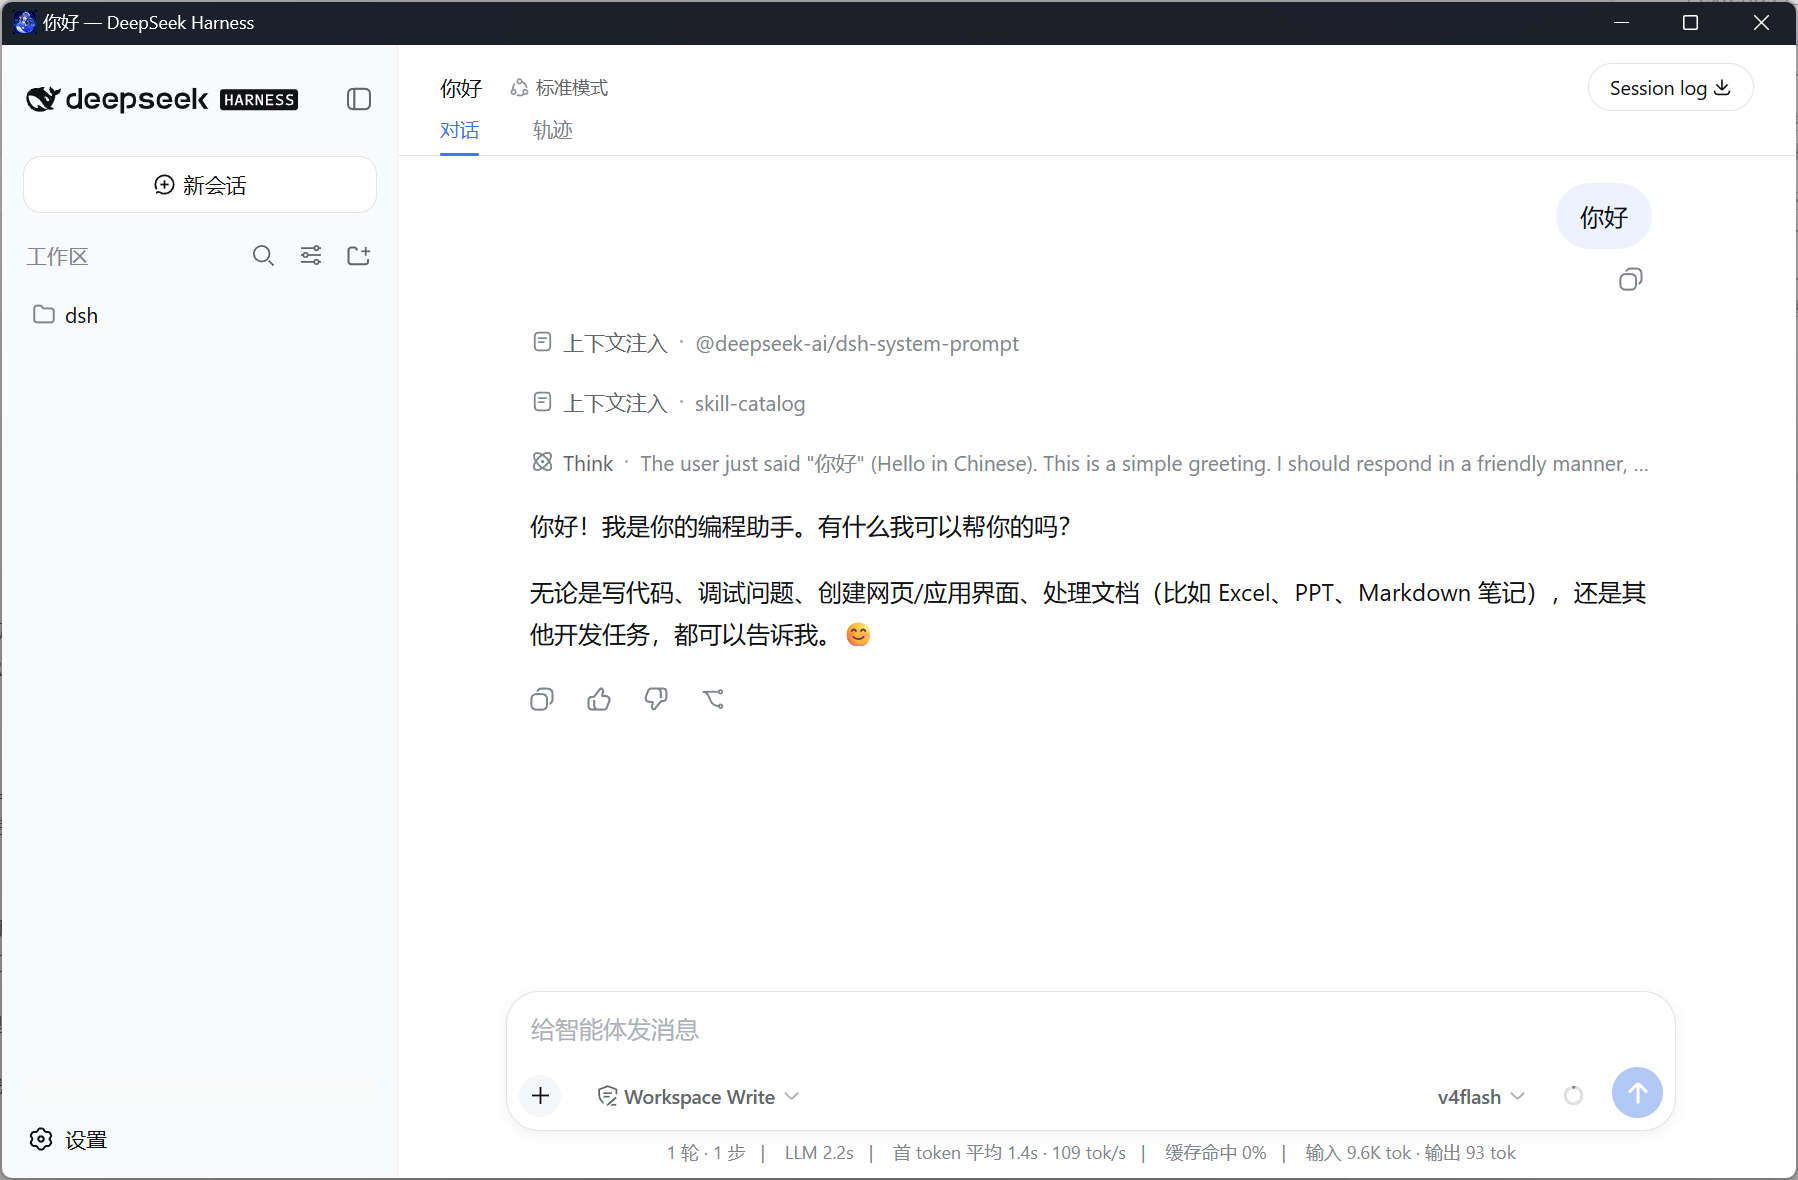
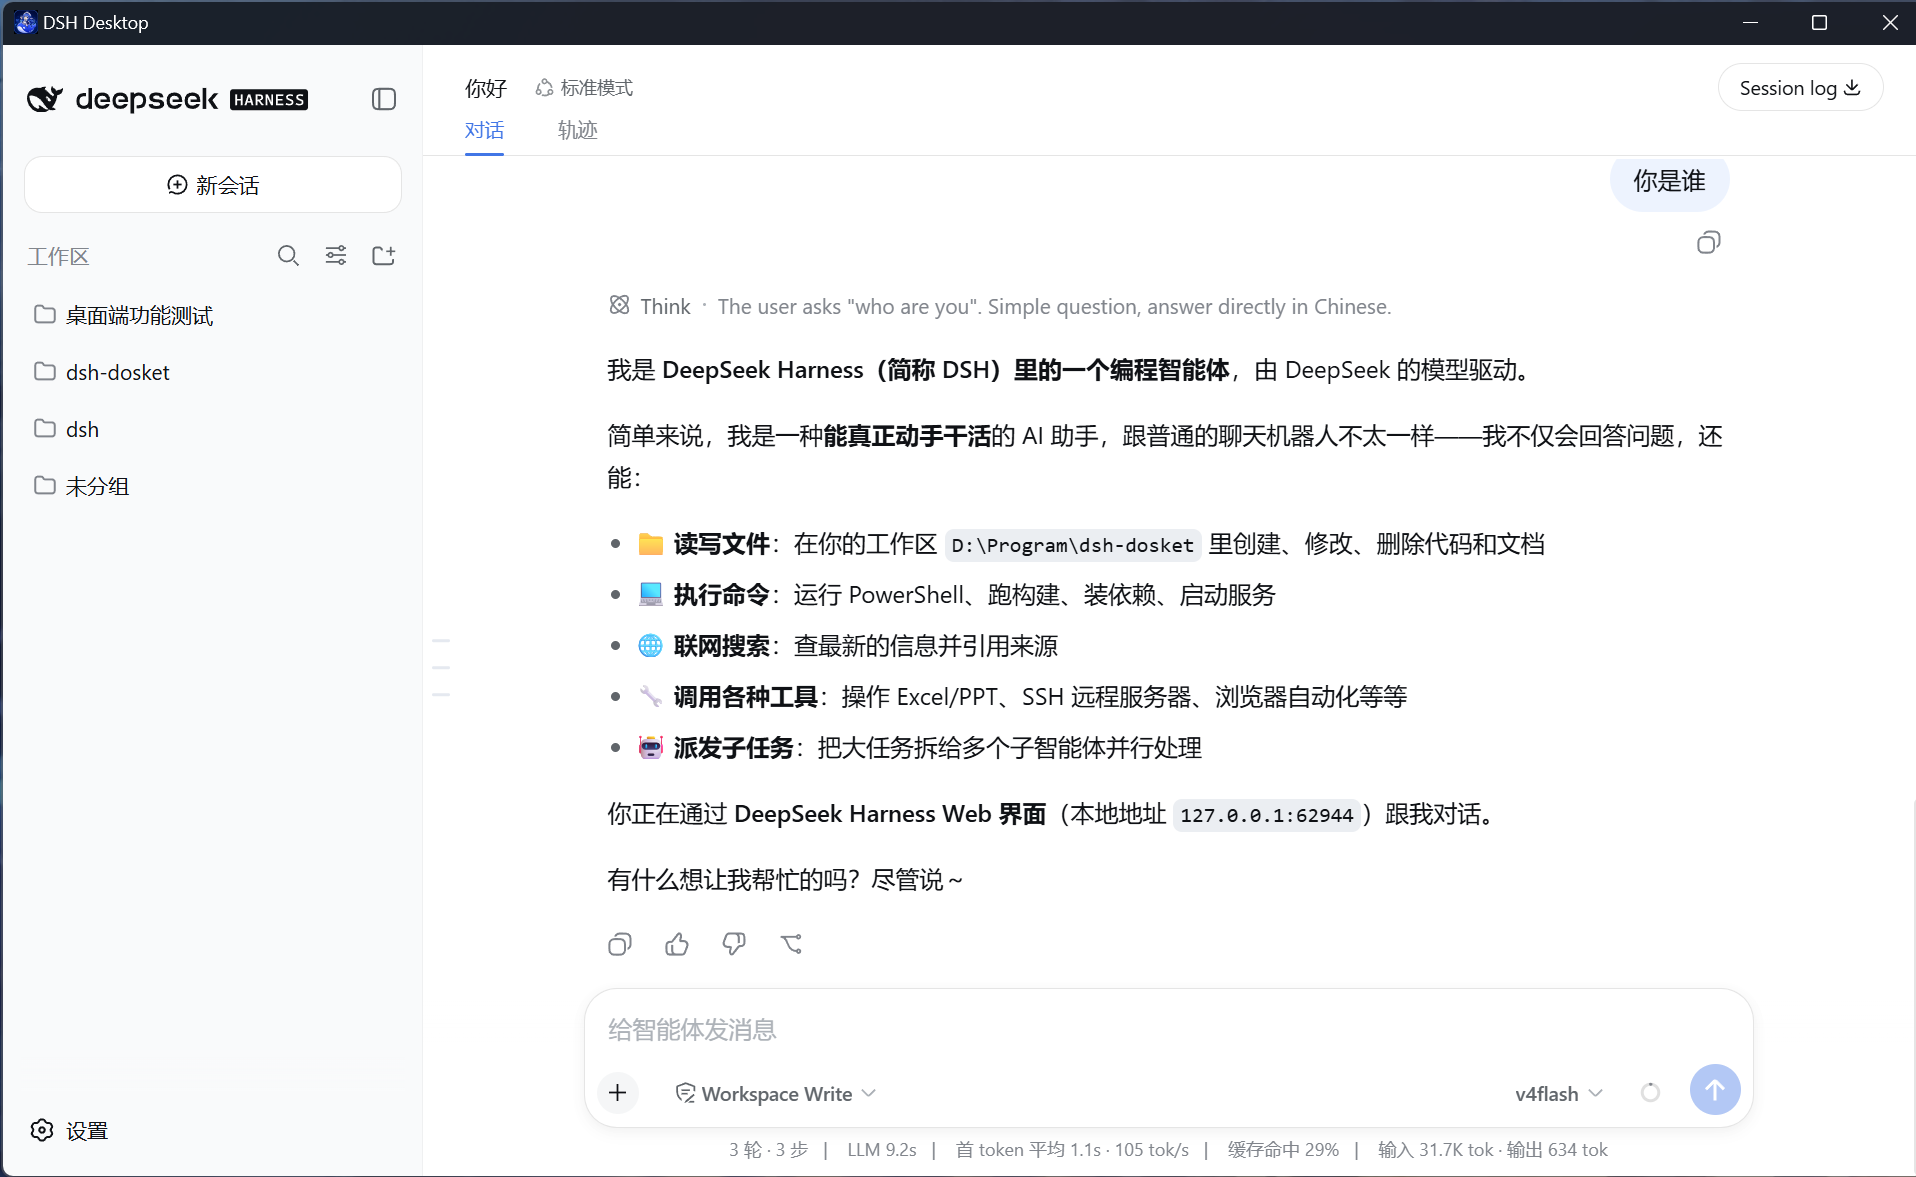
docs: replace main window shot and illustrate the tray plugin-management submenu

diff --git a/README.en.md b/README.en.md
@@ -97,6 +97,8 @@ Some crashes leave no diagnostic trace — for example, a plugin terminating the
 
 Everything above assumes the in-app interface is eventually reachable — yet the plugin page itself is a plugin, and when the failure is bad enough that the page never loads, it is of no help. The tray menu therefore carries an independent "Plugins" section that works without the service and without any page: it lists all installed plugins with their enabled state (noting whether each was disabled by the guard, from the in-app page, or by hand), disables or re-enables them one by one, enters safe mode on demand, and brings everything back in one click. Every change is followed by an automatic service restart so it takes effect deterministically; rapid consecutive actions merge into one restart. Damaged packages the guard removed from the launch list appear here too and can be readmitted after a confirmation, with a restart to verify — if they really are broken, the guard removes them again.
 
+![The tray's "Plugins" submenu](docs/images/screenshot-tray.png)
+
 The guard remains active after launch: plugin health is checked periodically, plugins that fail at runtime are disabled and recorded immediately, and plugins left waiting indefinitely for a service that never arrives are also recorded, to appear in the next quarantine report. A plugin that fails to mount while the service keeps running — the failure lands only in the log — is caught by a periodic log patrol and announced with a tray notification.
 
 ## Troubleshooting & feedback
